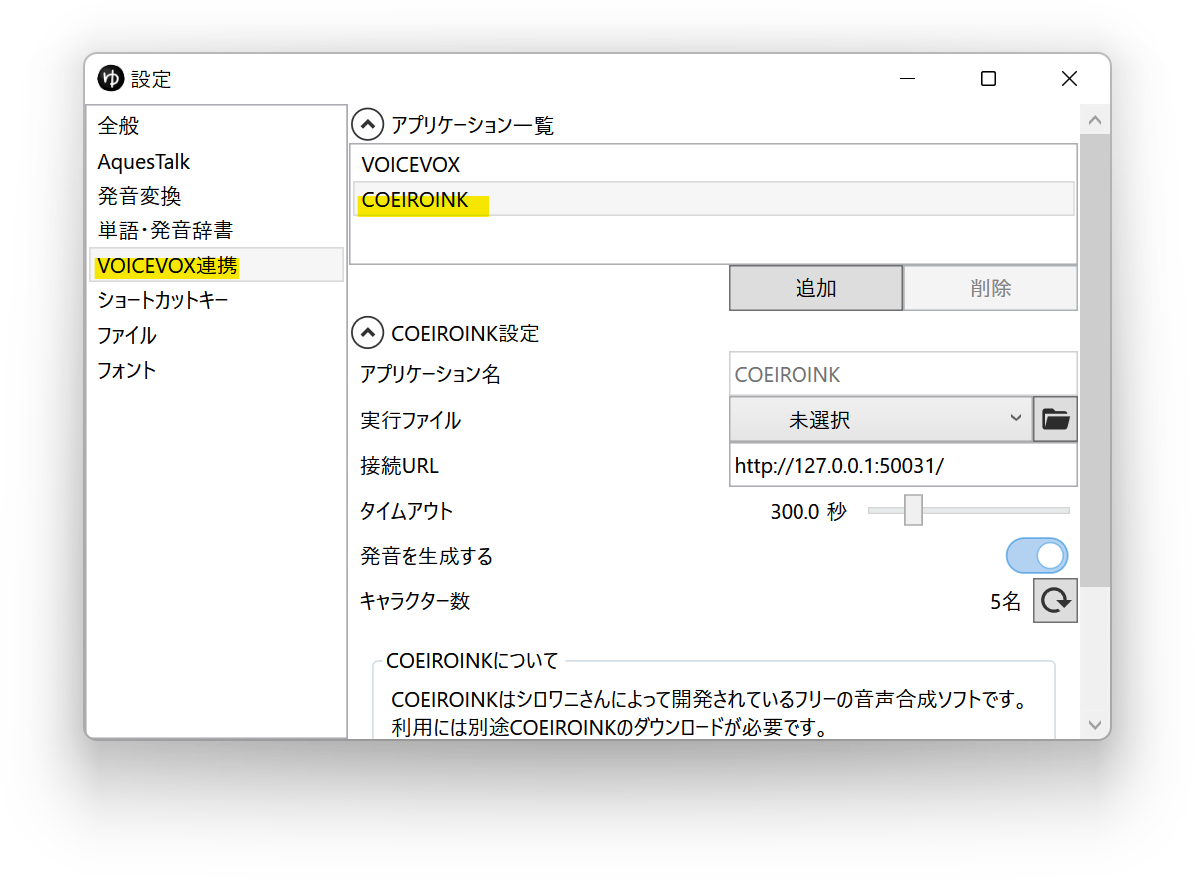
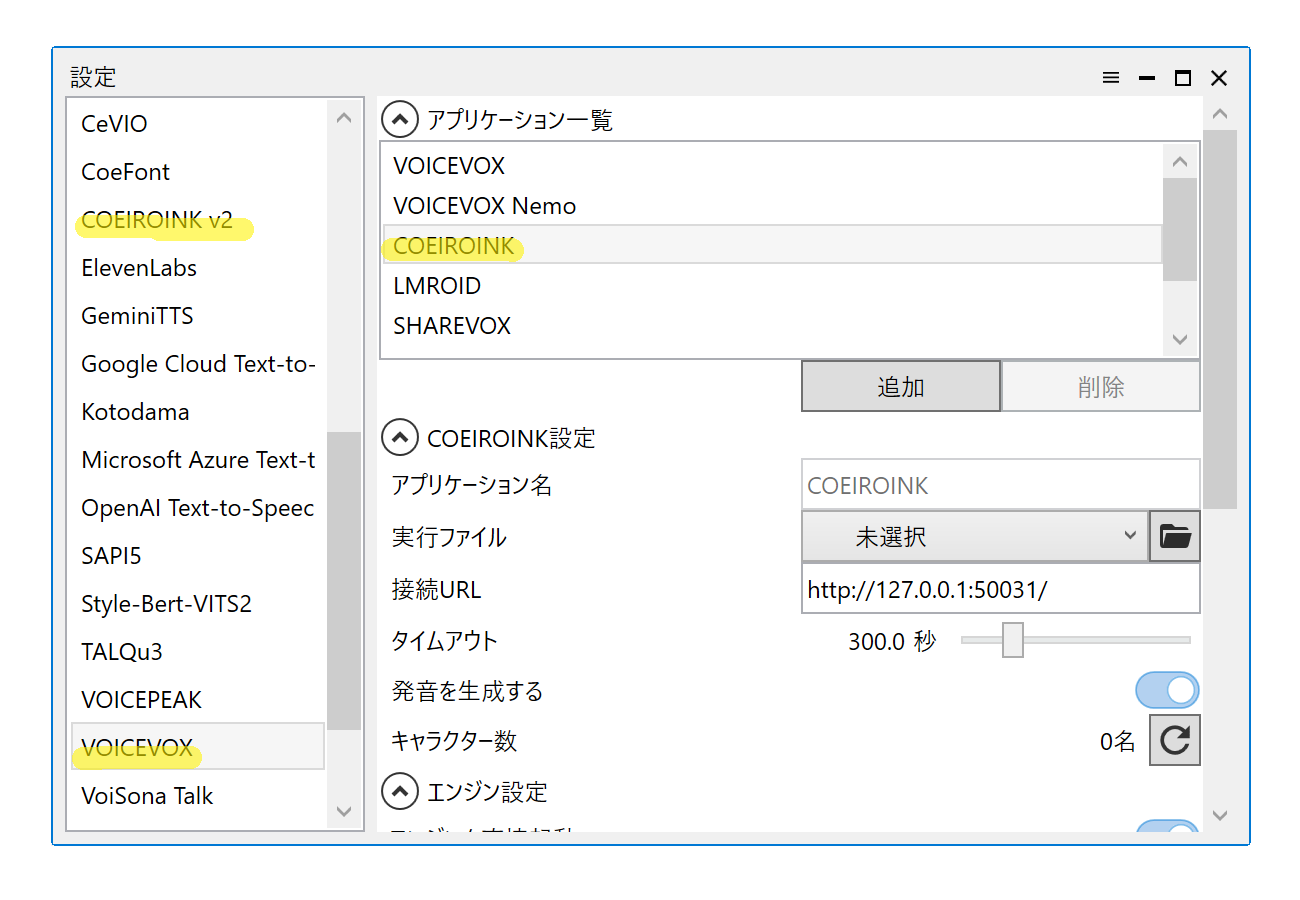
* COEIROINK v2に対応 * キャラクター別利用規約のリンク切れを修正

Changed region(s): [[0.031, 0.0307, 0.9598, 0.9511]]

diff --git a/ymm4/faq/ゆっくりボイス/COEIROINK.md b/ymm4/faq/ゆっくりボイス/COEIROINK.md
@@ -7,7 +7,7 @@ keywords: [COEIROINK, コエイロインク, マイコエ]
 ## COEIROINKとは
 ![スクリーンショット](COEIROINK_0843.png)
 COEIROINKは、シロワニさんが開発・公開しているフリーの音声合成ソフトです。  
-VOICEVOXのUIを利用して作成されています。  
+v1.7.3まではVOICEVOXのUIを利用して作成されていました。v2からは独自開発のUIになっています。  
 外部連携APIを使用し、YMM4から直接音声を生成できます。  
 ※細かい利用規約は[COEIROINK公式サイト](https://coeiroink.com/terms)をご確認ください。
 - [COEIROINK](https://coeiroink.com/)
@@ -17,9 +17,11 @@ VOICEVOXのUIを利用して作成されています。
 1. ゆっくりMovieMaker4を起動する
 1. *ファイル(F)*→*設定*から設定ウィンドウ開く
 ![スクリーンショット](COEIROINK_3512.png)
-1. *VOICEVOX*→*アプリケーション一覧*から*COEIROINK*を選択する
+1. (v1の場合)*VOICEVOX*→*アプリケーション一覧*から*COEIROINK*を選択する  
+   (v2の場合)*COEIROINK v2*を選択する
 ![スクリーンショット](COEIROINK_3608.png)
-1. *実行ファイル*欄右側のフォルダボタンをクリックし、*1.*で保存したフォルダ内にある*COEIROINKonVOICEVOX.exe*を選択する
+1. (v1の場合)*実行ファイル*欄右側のフォルダボタンをクリックし、*1.*で保存したフォルダ内にある*COEIROINK.exe*または*COEIROINKonVOICEVOX.exe*を選択する  
+   (v2の場合)*COEIROINKv2.exe*欄右側のフォルダボタンをクリックし、*1.*で保存したフォルダ内にある*COEIROINKv2.exe*を選択する
 ![スクリーンショット](COEIROINK_3817.png)
 1. *ファイル(F)*→*キャラクターの編集*からキャラクター編集ウィンドウを開く
 ![スクリーンショット](COEIROINK_3927.png)
@@ -42,6 +44,6 @@ VOICEVOXのUIを利用して作成されています。
 
 ## 利用条件等
 - [共通利用規約](https://coeiroink.com/terms)
-- [キャラクター別利用規約](https://coeiroink.com/character/list)
+- [キャラクター別利用規約](https://coeiroink.com/character/image-character/nako)
 - [Q&A](https://coeiroink.com/q_and_a)
 - [MYCOEIROINK](https://coeiroink.com/mycoeiroink)